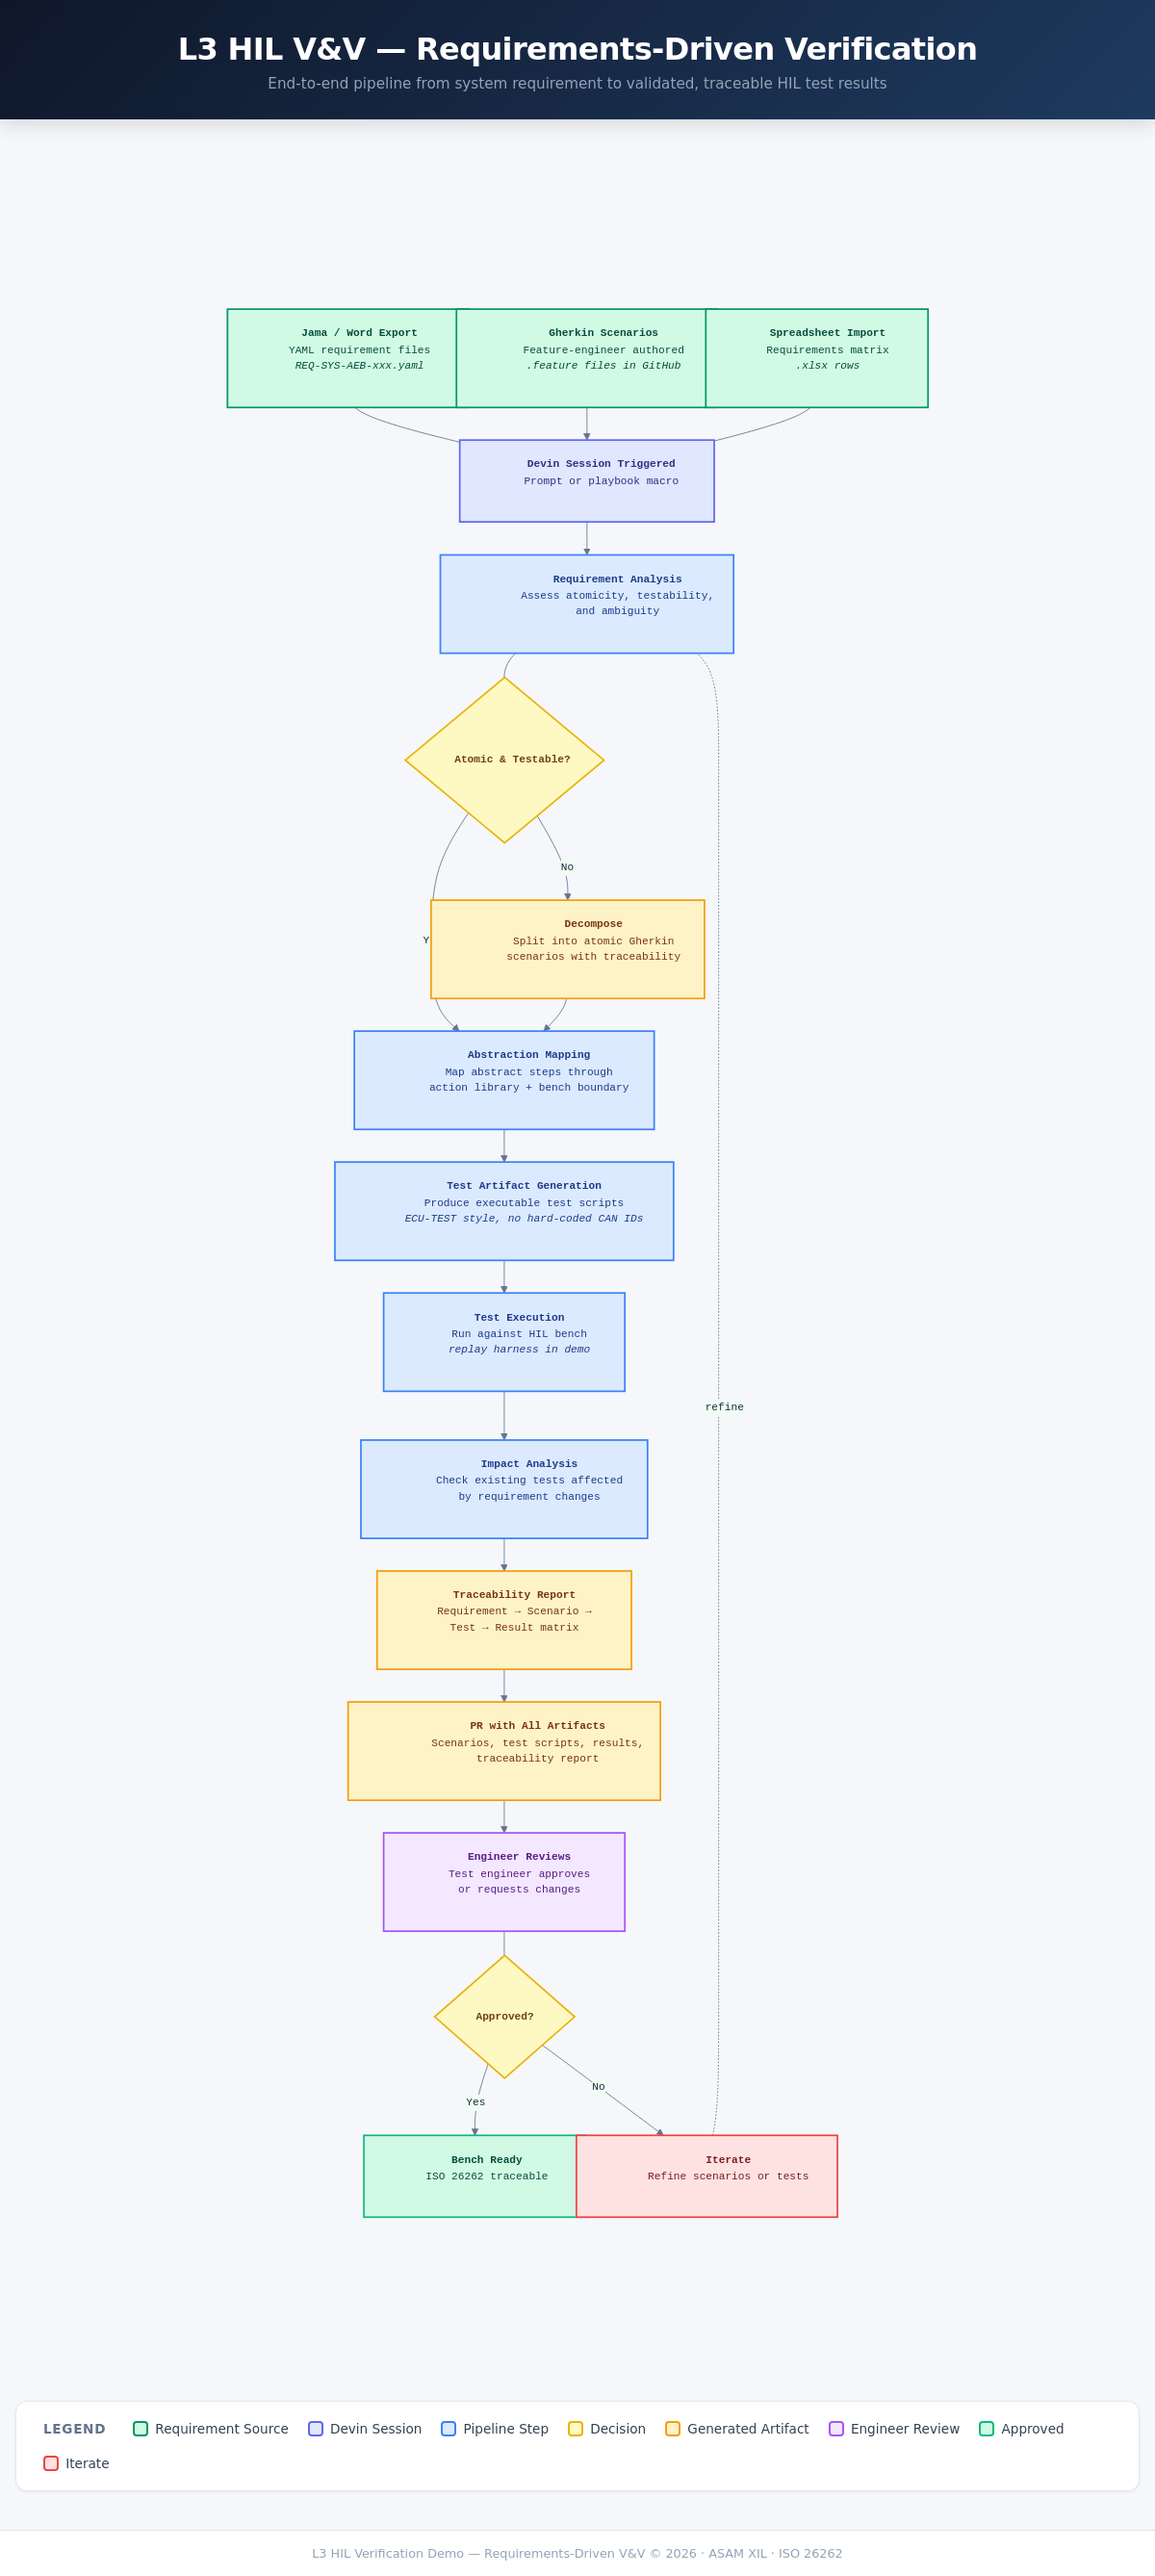
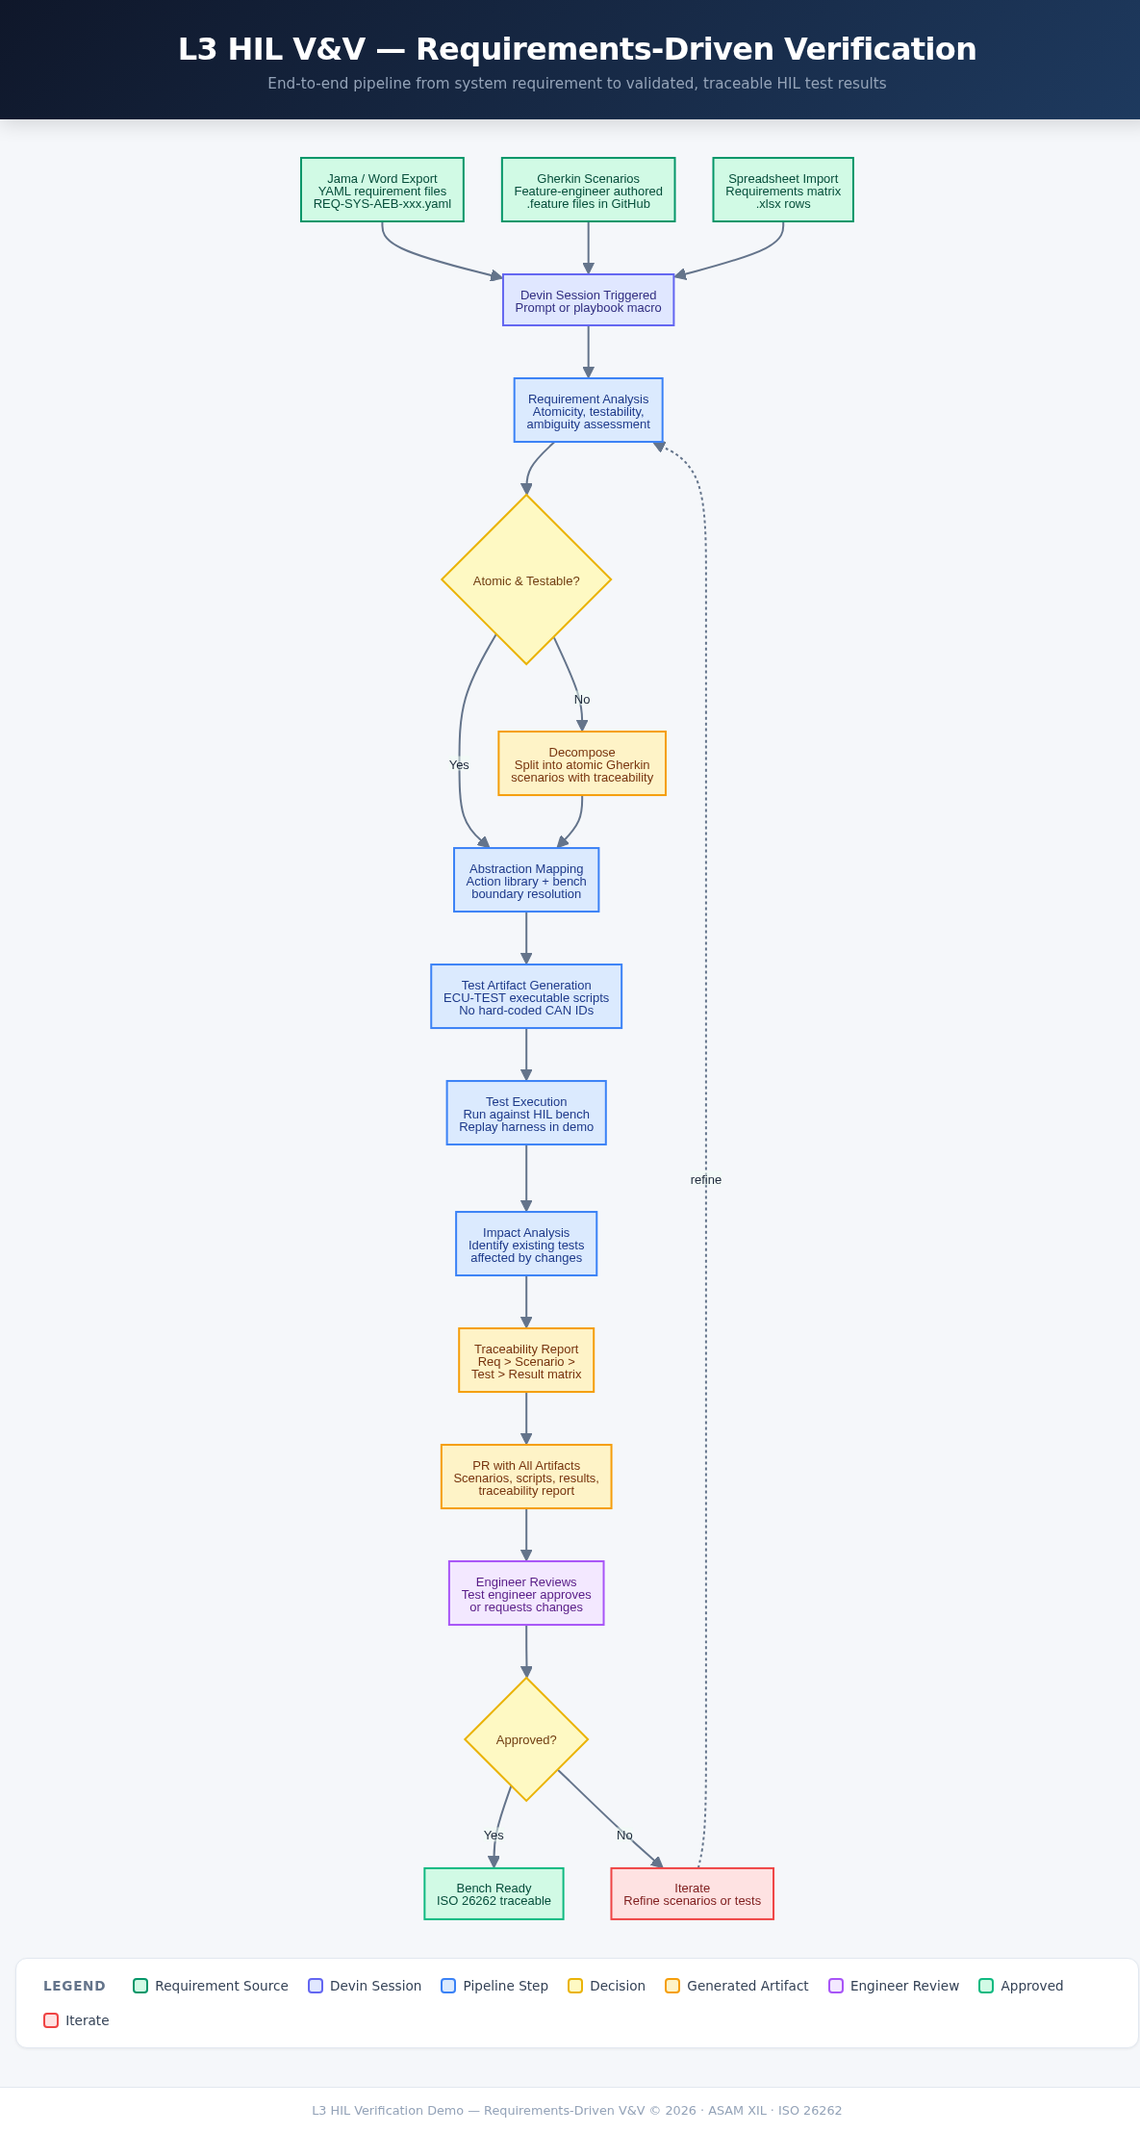
Fix flowchart: no overlap, centered text, correct font
- Switch to htmlLabels:false for reliable SVG text rendering
- Set font to sans-serif (Segoe UI not available on Linux)
- Add CSS to enforce sans-serif on all SVG text elements
- Remove post-render JS node resizing (caused overlaps)
- Use Mermaid v10 for stable rendering
- All text centered in nodes, no boxes overlap

diff --git a/docs/flowchart.html b/docs/flowchart.html
@@ -52,12 +52,9 @@
 
     .mermaid svg { margin: 0 auto; display: block; }
 
-    /* Fix Mermaid node text clipping */
-    .mermaid .node foreignObject {
-      overflow: visible !important;
-    }
-    .mermaid .node foreignObject > div {
-      overflow: visible !important;
+    /* Ensure sans-serif font for SVG text */
+    .mermaid text {
+      font-family: sans-serif !important;
     }
 
     .legend {
@@ -135,54 +132,54 @@
     'tertiaryColor':     '#fef3c7',
     'lineColor':         '#64748b',
     'fontSize':          '13px',
-    'fontFamily':        'Segoe UI, system-ui, sans-serif',
+    'fontFamily':        'sans-serif',
     'nodeTextColor':     '#1e293b'
   }
 }}%%
 
 flowchart TD
   %% ── Requirement Sources ──
-  JAMA["<b>Jama / Word Export</b><br/>YAML requirement files<br/><i>REQ-SYS-AEB-xxx.yaml</i>"]
-  GHERKIN["<b>Gherkin Scenarios</b><br/>Feature-engineer authored<br/><i>.feature files in GitHub</i>"]
-  XLSX["<b>Spreadsheet Import</b><br/>Requirements matrix<br/><i>.xlsx rows</i>"]
+  JAMA["Jama / Word Export\nYAML requirement files\nREQ-SYS-AEB-xxx.yaml"]
+  GHERKIN["Gherkin Scenarios\nFeature-engineer authored\n.feature files in GitHub"]
+  XLSX["Spreadsheet Import\nRequirements matrix\n.xlsx rows"]
 
   %% ── Devin Session ──
-  DEVIN["<b>Devin Session Triggered</b><br/>Prompt or playbook macro"]
+  DEVIN["Devin Session Triggered\nPrompt or playbook macro"]
 
   %% ── Analysis ──
-  ANALYZE["<b>Requirement Analysis</b><br/>Assess atomicity, testability,<br/>and ambiguity"]
+  ANALYZE["Requirement Analysis\nAtomicity, testability,\nambiguity assessment"]
 
   %% ── Decision ──
-  ATOMIC{"<b>Atomic &amp; Testable?</b>"}
+  ATOMIC{"Atomic & Testable?"}
 
   %% ── Decomposition ──
-  DECOMPOSE["<b>Decompose</b><br/>Split into atomic Gherkin<br/>scenarios with traceability"]
+  DECOMPOSE["Decompose\nSplit into atomic Gherkin\nscenarios with traceability"]
 
   %% ── Mapping ──
-  MAP["<b>Abstraction Mapping</b><br/>Map abstract steps through<br/>action library + bench boundary"]
+  MAP["Abstraction Mapping\nAction library + bench\nboundary resolution"]
 
   %% ── Generation ──
-  GEN["<b>Test Artifact Generation</b><br/>Produce executable test scripts<br/><i>ECU-TEST style, no hard-coded CAN IDs</i>"]
+  GEN["Test Artifact Generation\nECU-TEST executable scripts\nNo hard-coded CAN IDs"]
 
   %% ── Execution ──
-  EXEC["<b>Test Execution</b><br/>Run against HIL bench<br/><i>replay harness in demo</i>"]
+  EXEC["Test Execution\nRun against HIL bench\nReplay harness in demo"]
 
   %% ── Impact ──
-  IMPACT["<b>Impact Analysis</b><br/>Check existing tests affected<br/>by requirement changes"]
+  IMPACT["Impact Analysis\nIdentify existing tests\naffected by changes"]
 
   %% ── Traceability ──
-  TRACE["<b>Traceability Report</b><br/>Requirement &rarr; Scenario &rarr;<br/>Test &rarr; Result matrix"]
+  TRACE["Traceability Report\nReq > Scenario >\nTest > Result matrix"]
 
   %% ── PR ──
-  PR["<b>PR with All Artifacts</b><br/>Scenarios, test scripts, results,<br/>traceability report"]
+  PR["PR with All Artifacts\nScenarios, scripts, results,\ntraceability report"]
 
   %% ── Review ──
-  REVIEW["<b>Engineer Reviews</b><br/>Test engineer approves<br/>or requests changes"]
+  REVIEW["Engineer Reviews\nTest engineer approves\nor requests changes"]
 
   %% ── Decision ──
-  APPROVED{"<b>Approved?</b>"}
-  READY["<b>Bench Ready</b><br/>ISO 26262 traceable"]
-  ITERATE["<b>Iterate</b><br/>Refine scenarios or tests"]
+  APPROVED{"Approved?"}
+  READY["Bench Ready\nISO 26262 traceable"]
+  ITERATE["Iterate\nRefine scenarios or tests"]
 
   %% ── Connections ──
   JAMA --> DEVIN
@@ -245,117 +242,17 @@ flowchart TD
   </footer>
 
   <script type="module">
-    import mermaid from 'https://cdn.jsdelivr.net/npm/mermaid@11/dist/mermaid.esm.min.mjs';
+    import mermaid from 'https://cdn.jsdelivr.net/npm/mermaid@10/dist/mermaid.esm.min.mjs';
     mermaid.initialize({
-      startOnLoad: false,
+      startOnLoad: true,
       securityLevel: 'loose',
       flowchart: {
-        htmlLabels: true,
+        htmlLabels: false,
         curve: 'basis',
-        rankSpacing: 60,
-        nodeSpacing: 60,
-        padding: 20,
-        useMaxWidth: false,
-        wrappingWidth: 400
-      }
-    });
-
-    await mermaid.run();
-
-    // Post-render: resize nodes so all text is visible
-    requestAnimationFrame(() => {
-      document.querySelectorAll('.node').forEach(node => {
-        const fo = node.querySelector('foreignObject');
-        if (!fo) return;
-        const div = fo.querySelector('div');
-        if (!div) return;
-
-        // Measure actual content size
-        const textW = div.scrollWidth;
-        const textH = div.scrollHeight;
-        const padX = 40;
-        const padY = 20;
-        const needW = textW + padX;
-        const needH = textH + padY;
-
-        const foW = parseFloat(fo.getAttribute('width'));
-        const foH = parseFloat(fo.getAttribute('height'));
-
-        if (needW > foW || needH > foH) {
-          const newW = Math.max(needW, foW);
-          const newH = Math.max(needH, foH);
-          const dw = newW - foW;
-          const dh = newH - foH;
-
-          fo.setAttribute('width', newW);
-          fo.setAttribute('height', newH);
-          // Re-center the foreignObject
-          const foX = parseFloat(fo.getAttribute('x'));
-          fo.setAttribute('x', foX - dw / 2);
-
-          // Resize background rect
-          const rect = node.querySelector('rect');
-          if (rect) {
-            const rw = parseFloat(rect.getAttribute('width'));
-            const rh = parseFloat(rect.getAttribute('height'));
-            rect.setAttribute('width', rw + dw);
-            rect.setAttribute('height', rh + dh);
-            const rx = parseFloat(rect.getAttribute('x'));
-            rect.setAttribute('x', rx - dw / 2);
-          }
-
-          // Resize background polygon (diamond nodes)
-          const poly = node.querySelector('polygon');
-          if (poly) {
-            const bbox = poly.getBBox();
-            const scaleX = (bbox.width + dw) / bbox.width;
-            const scaleY = (bbox.height + dh) / bbox.height;
-            const cx = bbox.x + bbox.width / 2;
-            const cy = bbox.y + bbox.height / 2;
-            const points = poly.getAttribute('points').split(' ').map(p => {
-              const [px, py] = p.split(',').map(Number);
-              return `${cx + (px - cx) * scaleX},${cy + (py - cy) * scaleY}`;
-            });
-            poly.setAttribute('points', points.join(' '));
-          }
-        }
-      });
-
-      // Fix edge labels that may be clipped
-      document.querySelectorAll('.edgeLabel foreignObject').forEach(fo => {
-        const div = fo.querySelector('div');
-        if (!div) return;
-        const textW = div.scrollWidth + 16;
-        const textH = div.scrollHeight + 8;
-        const foW = parseFloat(fo.getAttribute('width'));
-        const foH = parseFloat(fo.getAttribute('height'));
-        if (textW > foW) {
-          fo.setAttribute('width', textW);
-          const foX = parseFloat(fo.getAttribute('x'));
-          fo.setAttribute('x', foX - (textW - foW) / 2);
-        }
-        if (textH > foH) {
-          fo.setAttribute('height', textH);
-        }
-        // Also fix the background rect of edge labels
-        const rect = fo.closest('.edgeLabel')?.querySelector('rect');
-        if (rect) {
-          const rw = parseFloat(rect.getAttribute('width'));
-          if (textW > rw) {
-            const rx = parseFloat(rect.getAttribute('x'));
-            rect.setAttribute('width', textW);
-            rect.setAttribute('x', rx - (textW - rw) / 2);
-          }
-        }
-      });
-
-      // Update SVG viewBox to fit all resized content
-      const svg = document.querySelector('.mermaid svg');
-      if (svg) {
-        const bbox = svg.getBBox();
-        const margin = 40;
-        svg.setAttribute('viewBox',
-          `${bbox.x - margin} ${bbox.y - margin} ${bbox.width + margin * 2} ${bbox.height + margin * 2}`);
+        rankSpacing: 55,
+        nodeSpacing: 40,
+        padding: 25,
+        useMaxWidth: false
       }
     });
   </script>
